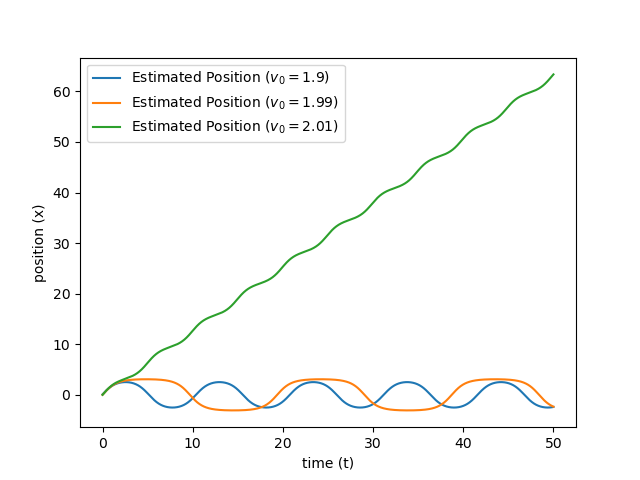
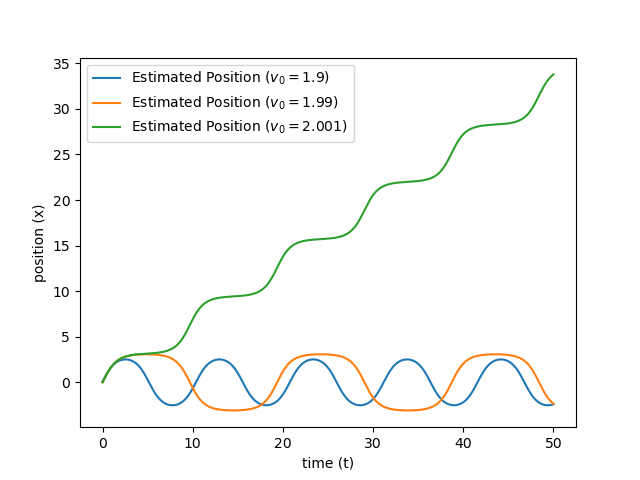
final refinements

diff --git a/module_3/Q4.cpp b/module_3/Q4.cpp
@@ -5,7 +5,7 @@
 #include <vector>
 using namespace std;
 
-const double y_actual = 48.078;
+const double y_actual = 48.0784824792;
 
 double derivative_func(auto x, auto y) {
     return pow(y,2)+1;
@@ -14,7 +14,7 @@ double derivative_func(auto x, auto y) {
 int main()
 {
     double curr_x = 0;
-    double dx = 0.001;
+    double dx = 0.01;
     cout << "Enter Step Size:" << endl;
     cin >> dx; 
     vector<double> sol_vector = {};
@@ -22,7 +22,9 @@ int main()
     double init_fx = 0;
     sol_vector.push_back(init_fx);
 
-    while (curr_x+dx < 1.55)
+    /* checking if x is dx away from 1.55 should work but
+     * it doesn't catch 1.549 for dx = 0.001 */
+    while (curr_x+0.5*dx <= 1.55)
     {
         double curr_y = sol_vector.back();
         double slope1 = derivative_func(curr_x,curr_y);
@@ -41,6 +43,7 @@ int main()
         sol_vector.push_back(next_fx);
         curr_x += dx;
     }
+    cout << curr_x << endl;
     cout << abs(y_actual - sol_vector.back()) << endl;
     return 0;
 }

diff --git a/module_3/Q1.cpp b/module_3/Q1.cpp
@@ -20,13 +20,17 @@ double derivative_func(auto x, auto y) {
 int main()
 {
     double curr_x = 0;
-    double dx = 0.01;
+    double dx = 0.001;
+    cout << "Enter Step Size:" << endl;
+    cin >> dx; 
     vector<double> sol_vector = {};
 
     double init_fx = 0;
     sol_vector.push_back(init_fx);
 
-    while (curr_x < 1.55)
+    /* checking if x is dx away from 1.55 should work but
+     * it doesn't catch 1.549 for dx = 0.001 */
+    while (curr_x+0.5*dx <= 1.55)
     {
         double next_fx = est_func_dx(&derivative_func, curr_x, sol_vector.back(), dx);
         sol_vector.push_back(next_fx);

diff --git a/module_3/Q2.cpp b/module_3/Q2.cpp
@@ -29,7 +29,9 @@ int main()
     double init_fx = 0;
     sol_vector.push_back(init_fx);
 
-    while (curr_x < 1.55)
+    /* checking if x is dx away from 1.55 should work but
+     * it doesn't catch 1.549 for dx = 0.001 */
+    while (curr_x+0.5*dx <= 1.55)
     {
         double curr_y = sol_vector.back();
         double mid_fx = est_func_dx(&derivative_func, curr_x, curr_y, curr_y, dx/2);

diff --git a/module_3/Q3.cpp b/module_3/Q3.cpp
@@ -22,7 +22,9 @@ int main()
     double init_fx = 0;
     sol_vector.push_back(init_fx);
 
-    while (curr_x < 1.55)
+    /* checking if x is dx away from 1.55 should work but
+     * it doesn't catch 1.549 for dx = 0.001 */
+    while (curr_x+0.5*dx <= 1.55)
     {
         double curr_y = sol_vector.back();
         double slope1 = derivative_func(curr_x,curr_y);

diff --git a/module_3/auxscripts/Q5-6-7_plot.py b/module_3/auxscripts/Q5-6-7_plot.py
@@ -16,7 +16,7 @@ t = np.linspace(0,50,len(x5))
 xth = 0.1*np.sin(t)
 plt.plot(t,x5, label="Estimated Position ($v_0=1.9$)")
 plt.plot(t,x6, label="Estimated Position ($v_0=1.99$)")
-plt.plot(t,x7, label="Estimated Position ($v_0=2.01$)")
+plt.plot(t,x7, label="Estimated Position ($v_0=2.001$)")
 plt.legend()
 plt.xlabel("time (t)")
 plt.ylabel("position (x)")

diff --git a/module_3/auxscripts/Q8_p1_posfile.py b/module_3/auxscripts/Q8_p1_posfile.py
@@ -6,5 +6,5 @@ import numpy as np
 data = pd.read_csv("data/Q8_particle_1_pos.dat", header=None)
 t = np.linspace(0,40,len(data[1]))
 plt.plot(t,data[0])
-plt.plot(t,data[3])
+plt.plot(t,data[25])
 plt.show()
